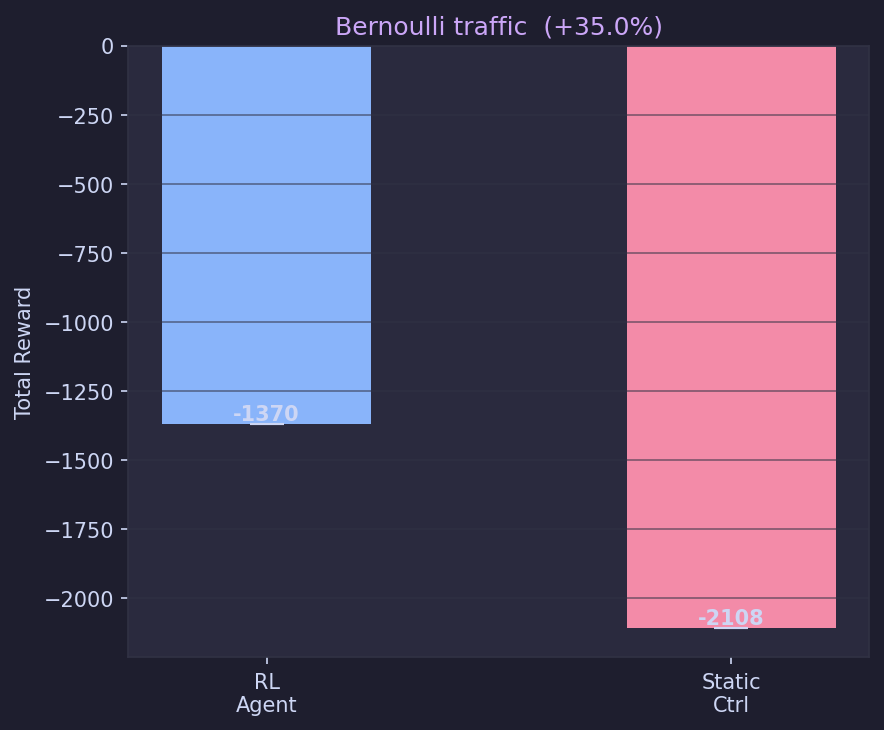
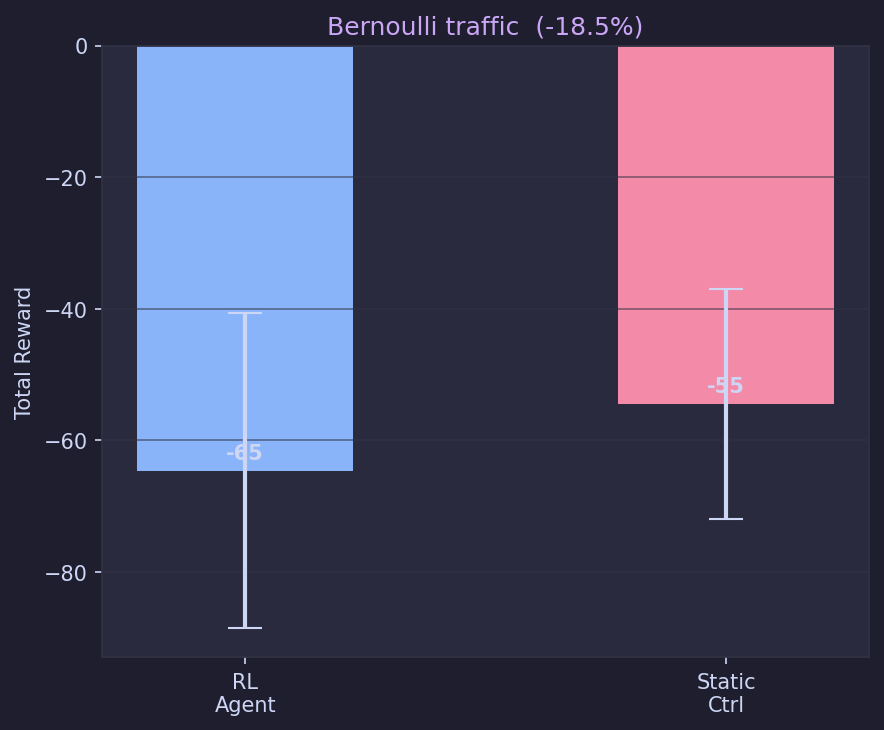
update some bullshit, I felt lost

diff --git a/train.py b/train.py
@@ -20,6 +20,7 @@ Usage
 
 import os
 import argparse
+from datetime import datetime
 
 import numpy as np
 import matplotlib
@@ -39,7 +40,7 @@ def moving_average(values, window=10):
     return np.convolve(values, np.ones(window) / window, mode="valid")
 
 
-def plot_training(rewards, losses, save_path="training_results.png"):
+def plot_training(rewards, losses, wait_parts=None, count_parts=None, save_path="training_results.png"):
     """
     Parameters
     ----------
@@ -47,8 +48,13 @@ def plot_training(rewards, losses, save_path="training_results.png"):
         Per-episode total reward.
     losses : list[float]
         Per-episode average loss.
+    wait_parts : list[float], optional
+        Lead-vehicle waiting component of reward.
+    count_parts : list[float], optional
+        Halting vehicle count component of reward.
     """
-    fig, axes = plt.subplots(2, 1, figsize=(12, 9), facecolor="#1e1e2e")
+    n_rows = 3 if wait_parts is not None else 2
+    fig, axes = plt.subplots(n_rows, 1, figsize=(12, 4.5 * n_rows), facecolor="#1e1e2e")
     for ax in axes:
         ax.set_facecolor("#2a2a3e")
         ax.tick_params(colors="#cdd6f4")
@@ -83,6 +89,21 @@ def plot_training(rewards, losses, save_path="training_results.png"):
     axes[1].legend(facecolor="#313244", labelcolor="#cdd6f4")
     axes[1].grid(True, color="#313244", alpha=0.6)
 
+    # Component panel (if provided)
+    if wait_parts is not None and count_parts is not None:
+        episodes = np.arange(1, len(rewards) + 1)
+        # Use stacked or side-by-side? Let's use two lines for clarity
+        axes[2].plot(episodes, wait_parts, color="#fab387", alpha=0.7, label="Wait Component")
+        axes[2].plot(episodes, count_parts, color="#89b4fa", alpha=0.7, label="Count Component")
+        if len(wait_parts) >= 5:
+            axes[2].plot(episodes[4:], moving_average(wait_parts, 5), color="#fab387", linewidth=2)
+            axes[2].plot(episodes[4:], moving_average(count_parts, 5), color="#89b4fa", linewidth=2)
+        axes[2].set_xlabel("Episode")
+        axes[2].set_ylabel("Component Reward (Unscaled)")
+        axes[2].set_title("Reward Breakdown (Harmonic Components)")
+        axes[2].legend(facecolor="#313244", labelcolor="#cdd6f4")
+        axes[2].grid(True, color="#313244", alpha=0.6)
+
     plt.tight_layout()
     plt.savefig(save_path, dpi=150, bbox_inches="tight")
     print(f"\n  [plot saved] {save_path}")
@@ -109,7 +130,13 @@ def train(num_episodes: int = 200, use_gui: bool = False, resume: str = None,
 
     losses_log = []
     rewards_log = []
+    wait_log = []
+    count_log = []
     best_reward = -float("inf")
+
+    # Unique identifier for this session's plot
+    timestamp = datetime.now().strftime("%Y%m%d_%H%M%S")
+    session_plot_path = f"results_{timestamp}.png"
 
     print(f"\n{'='*60}")
     print(f"  DQN Traffic Signal Control - Training")
@@ -123,17 +150,21 @@ def train(num_episodes: int = 200, use_gui: bool = False, resume: str = None,
         env.set_scenario(scenario_cycle[(ep - 1) % len(scenario_cycle)])
         state = env.reset()
         total_reward = 0.0
+        ep_wait = 0.0
+        ep_count = 0.0
         ep_losses = []
 
         while True:
             action = agent.select_action(state)
-            next_state, reward, done, _ = env.step(action)
+            next_state, reward, done, info = env.step(action)
             reward *= REWARD_SCALE
             agent.store(state, action, reward, next_state, done)
             loss = agent.update()
             if loss is not None:
                 ep_losses.append(loss)
             total_reward += reward
+            ep_wait += info.get("wait_part", 0.0)
+            ep_count += info.get("count_part", 0.0)
             state = next_state
             if done:
                 break
@@ -141,6 +172,8 @@ def train(num_episodes: int = 200, use_gui: bool = False, resume: str = None,
         avg_loss = float(np.mean(ep_losses)) if ep_losses else 0.0
         rewards_log.append(total_reward)
         losses_log.append(avg_loss)
+        wait_log.append(ep_wait)
+        count_log.append(ep_count)
 
         # Console log
         bar = "=" * int(30 * ep / num_episodes) + "-" * (30 - int(30 * ep / num_episodes))
@@ -156,13 +189,16 @@ def train(num_episodes: int = 200, use_gui: bool = False, resume: str = None,
         if ep % 50 == 0:
             agent.save(os.path.join(ckpt_dir, f"dqn_ep{ep}.pt"))
 
-        # Save best model
-        if total_reward > best_reward:
-            best_reward = total_reward
-            agent.save(os.path.join(ckpt_dir, "dqn_best.pt"))
+        # Save best model based on the average of the last 4 scenarios (one full cycle)
+        if ep >= 4 and ep % len(scenario_cycle) == 0:
+            cycle_avg = np.mean(rewards_log[-len(scenario_cycle):])
+            if cycle_avg > best_reward:
+                best_reward = cycle_avg
+                agent.save(os.path.join(ckpt_dir, "dqn_best.pt"))
+                print(f"  [new best] cycle avg = {best_reward:.1f}")
 
     agent.save(os.path.join(ckpt_dir, "dqn_final.pt"))
-    plot_training(rewards_log, losses_log)
+    plot_training(rewards_log, losses_log, wait_log, count_log, save_path=session_plot_path)
 
     print(f"\n  Training complete. Best reward: {best_reward:.1f}")
     return agent, rewards_log

diff --git a/env/traffic_env.py b/env/traffic_env.py
@@ -48,10 +48,11 @@ except ImportError as e:
 
 
 BERNOULLI_ROUTE_FILE = "bernoulli.rou.xml"
-RED_TIME_HARD_LIMIT = 100
-RED_TIME_SOFT_LIMIT = 80
+COUNT_REWARD_UPPER_BOUND = 10
+WAIT_REWARD_UPPER_BOUND = 15
+WAIT_TIME_LIMIT = 100
 
-def compute_reward(lanes: list, left_lanes: list, mode: str = "wait") -> float:
+def compute_reward(lanes: list, left_lanes: list, mode: str = "wait", return_components: bool = False) -> float:
     """
     Standardized reward function shared between Environment and Evaluation.
 
@@ -66,26 +67,41 @@ def compute_reward(lanes: list, left_lanes: list, mode: str = "wait") -> float:
                       on each lane.
         - 'count'   : Negative number of halting vehicles on the lane.
         - 'harmonic': Lead-vehicle waiting time + halting count combined.
+    return_components : bool
+        If True, returns (total_reward, wait_part, count_part).
     """
     reward = 0.0
+    wait_part_total = 0.0
+    count_part_total = 0.0
+
     for l in lanes:
+        wait_val = 0.0
+        count_val = 0.0
+
         if mode == "harmonic" or mode == "wait":
             veh_ids = traci.lane.getLastStepVehicleIDs(l)
             lead_wait = 0.0
             if veh_ids:
                 lead = max(veh_ids, key=lambda v: traci.vehicle.getLanePosition(v))
                 lead_wait = traci.vehicle.getWaitingTime(lead)
-            if mode == "harmonic":
-                val = lead_wait*np.exp((lead_wait - RED_TIME_HARD_LIMIT) / (RED_TIME_HARD_LIMIT - RED_TIME_SOFT_LIMIT)) + 2*traci.lane.getLastStepHaltingNumber(l)
-            else:
-                val = lead_wait
-        else:  # "count"
-            val = traci.lane.getLastStepHaltingNumber(l)
 
-        if l in left_lanes:
-            reward -= val * 1.5
-        else:
-            reward -= val
+            if mode == "harmonic":
+                wait_val = WAIT_REWARD_UPPER_BOUND / (1 + np.exp(-4 * (lead_wait - WAIT_TIME_LIMIT)))
+                count_val = COUNT_REWARD_UPPER_BOUND * (1 - np.exp(-0.1 * traci.lane.getLastStepHaltingNumber(l)))
+
+            else:
+                wait_val = lead_wait
+        else:  # "count"
+            count_val = traci.lane.getLastStepHaltingNumber(l)
+
+        penalty = 1.5 if l in left_lanes else 1.0
+        
+        reward -= (wait_val + count_val) * penalty
+        wait_part_total -= wait_val * penalty
+        count_part_total -= count_val * penalty
+
+    if return_components:
+        return reward, wait_part_total, count_part_total
     return reward
 
 
@@ -297,8 +313,8 @@ class TrafficEnv:
             dtype=np.float32,
         )
 
-    def _get_reward(self) -> float:
-        return compute_reward(self.ALL_LANES, self.LEFT_LANES, mode=self.reward_mode)
+    def _get_reward(self, return_components: bool = False):
+        return compute_reward(self.ALL_LANES, self.LEFT_LANES, mode=self.reward_mode, return_components=return_components)
 
     # -- Gym-style API ---------------------------------------------------------
     def reset(self) -> np.ndarray:
@@ -316,6 +332,8 @@ class TrafficEnv:
 
     def step(self, action: int):
         reward = 0.0
+        wait_sum = 0.0
+        count_sum = 0.0
         scoring = self._step < self.MAX_STEPS  # only accumulate reward up to MAX_STEPS
 
         if action != 0 and self._phase_time >= self.MIN_GREEN:
@@ -325,7 +343,11 @@ class TrafficEnv:
             for t in range(self.YELLOW_DURATION):
                 traci.simulationStep()
                 if scoring:
-                    reward += (self.GAMMA ** t) * self._get_reward()
+                    r, w, c = self._get_reward(return_components=True)
+                    gamma_t = (self.GAMMA ** t)
+                    reward += gamma_t * r
+                    wait_sum += gamma_t * w
+                    count_sum += gamma_t * c
 
             self._green_idx = (self._green_idx + action) % self.NUM_PHASES
             self._set_phase(self.GREEN_PHASES[self._green_idx])
@@ -335,7 +357,11 @@ class TrafficEnv:
         for t in range(self.STEP_SIZE):
             traci.simulationStep()
             if scoring:
-                reward += (self.GAMMA ** t) * self._get_reward()
+                r, w, c = self._get_reward(return_components=True)
+                gamma_t = (self.GAMMA ** t)
+                reward += gamma_t * r
+                wait_sum += gamma_t * w
+                count_sum += gamma_t * c
 
         self._phase_time += self.STEP_SIZE
         self._step += 1
@@ -356,6 +382,8 @@ class TrafficEnv:
             "step": self._step,
             "phase": self._green_idx,
             "phase_time": self._phase_time,
+            "wait_part": wait_sum,
+            "count_part": count_sum,
         }
 
     def close(self):

diff --git a/evaluate.py b/evaluate.py
@@ -197,18 +197,36 @@ if __name__ == "__main__":
         print("  Run  python train.py  first to train a model.")
         raise SystemExit(1)
 
-    rl_rewards = run_rl(args.model, sumo_cfg, args.gui, args.runs,
-                        bernoulli_p=args.prob, reward_mode=args.reward_mode,
-                        scenario=args.scenario)
-    static_rewards = run_static(sumo_cfg, args.gui, args.runs,
-                                bernoulli_p=args.prob, reward_mode=args.reward_mode,
-                                scenario=args.scenario)
+    all_rl_rewards = []
+    all_static_rewards = []
 
-    improvement = ((np.mean(rl_rewards) - np.mean(static_rewards))
-                   / abs(np.mean(static_rewards)) * 100
-                   if np.mean(static_rewards) != 0 else 0)
-    print(f"\n  RL: {np.mean(rl_rewards):.1f} +/- {np.std(rl_rewards):.1f}  |  "
-          f"Static: {np.mean(static_rewards):.1f} +/- {np.std(static_rewards):.1f}  |  "
-          f"{improvement:+.1f}%")
+    print(f"\n{'='*60}")
+    print(f"  Evaluating performance across all 4 scenarios")
+    print(f"  Scenarios : {TrafficEnv.SCENARIOS}")
+    print(f"  Runs/scen : {args.runs}")
+    print(f"{'='*60}")
 
-    plot_comparison(rl_rewards, static_rewards)
+    for scen in TrafficEnv.SCENARIOS:
+        scen_rl = run_rl(args.model, sumo_cfg, args.gui, args.runs,
+                         bernoulli_p=args.prob, reward_mode=args.reward_mode,
+                         scenario=scen)
+        scen_static = run_static(sumo_cfg, args.gui, args.runs,
+                                 bernoulli_p=args.prob, reward_mode=args.reward_mode,
+                                 scenario=scen)
+        
+        all_rl_rewards.extend(scen_rl)
+        all_static_rewards.extend(scen_static)
+
+    rl_avg = np.mean(all_rl_rewards)
+    static_avg = np.mean(all_static_rewards)
+    improvement = ((rl_avg - static_avg) / abs(static_avg) * 100
+                   if static_avg != 0 else 0)
+
+    print(f"\n{'='*60}")
+    print(f"  GRAND AVERAGE RESULTS")
+    print(f"  RL Agent    : {rl_avg:>8.1f} +/- {np.std(all_rl_rewards):.1f}")
+    print(f"  Static Ctrl : {static_avg:>8.1f} +/- {np.std(all_static_rewards):.1f}")
+    print(f"  Improvement : {improvement:>+8.1f}%")
+    print(f"{'='*60}\n")
+
+    plot_comparison(all_rl_rewards, all_static_rewards)
